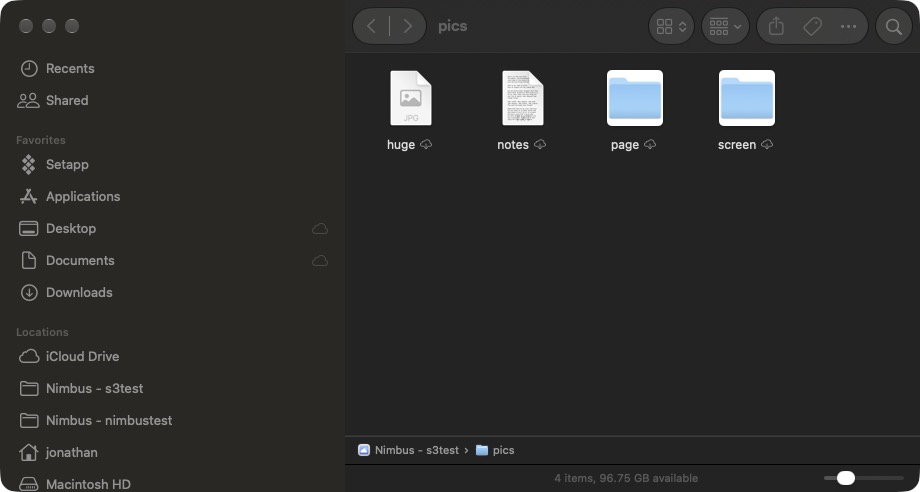
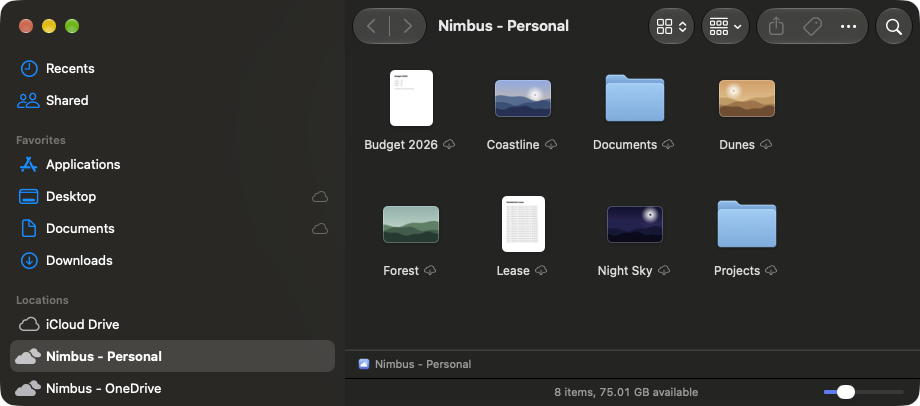
feat(site): a clean demo capture of Nimbus in Finder
The old Finder shot showed a personal sidebar and test cloud names. This one
is a real Finder window on a demo cloud of made-up files: Nimbus - Personal
under Locations beside iCloud Drive, with thumbnails and cloud badges.

diff --git a/site/index.html b/site/index.html
@@ -133,7 +133,7 @@
         </ul>
         <p class="fp__fine">No kernel extension. No FUSE. Nothing to approve in Recovery.</p>
       </div>
-      <figure class="fp__shot"><img src="assets/finder-thumbnails.png" width="920" height="492" alt="A Finder window showing cloud photos and PDFs with real thumbnails before any file is downloaded." loading="lazy"></figure>
+      <figure class="fp__shot"><img src="assets/finder-demo.png" width="920" height="406" alt="A Finder window open on a cloud named Nimbus - Personal, listed under Locations beside iCloud Drive. Photos and PDFs show real thumbnails, each with a cloud badge, before any file is downloaded. Demo files." loading="lazy"></figure>
     </article>
 
     <h3 class="wall__title">And everywhere else macOS offers an app a place to live.</h3>
@@ -198,7 +198,7 @@
     <div class="bento">
       <article class="tile tile--white tile--span2">
         <figure class="tile__img">
-          <img src="assets/finder-thumbnails.png" width="920" height="492" alt="A Finder window showing cloud photos and PDFs with real thumbnails before any file is downloaded." loading="lazy">
+          <img src="assets/finder-demo.png" width="920" height="406" alt="A Finder window open on a cloud named Nimbus - Personal, listed under Locations beside iCloud Drive. Photos and PDFs show real thumbnails, each with a cloud badge, before any file is downloaded. Demo files." loading="lazy">
         </figure>
         <h3>Thumbnails before download</h3>
         <p>Photos and PDFs in the cloud show real previews in Finder, made on demand and cached, so you can find the right file without pulling it down first.</p>
